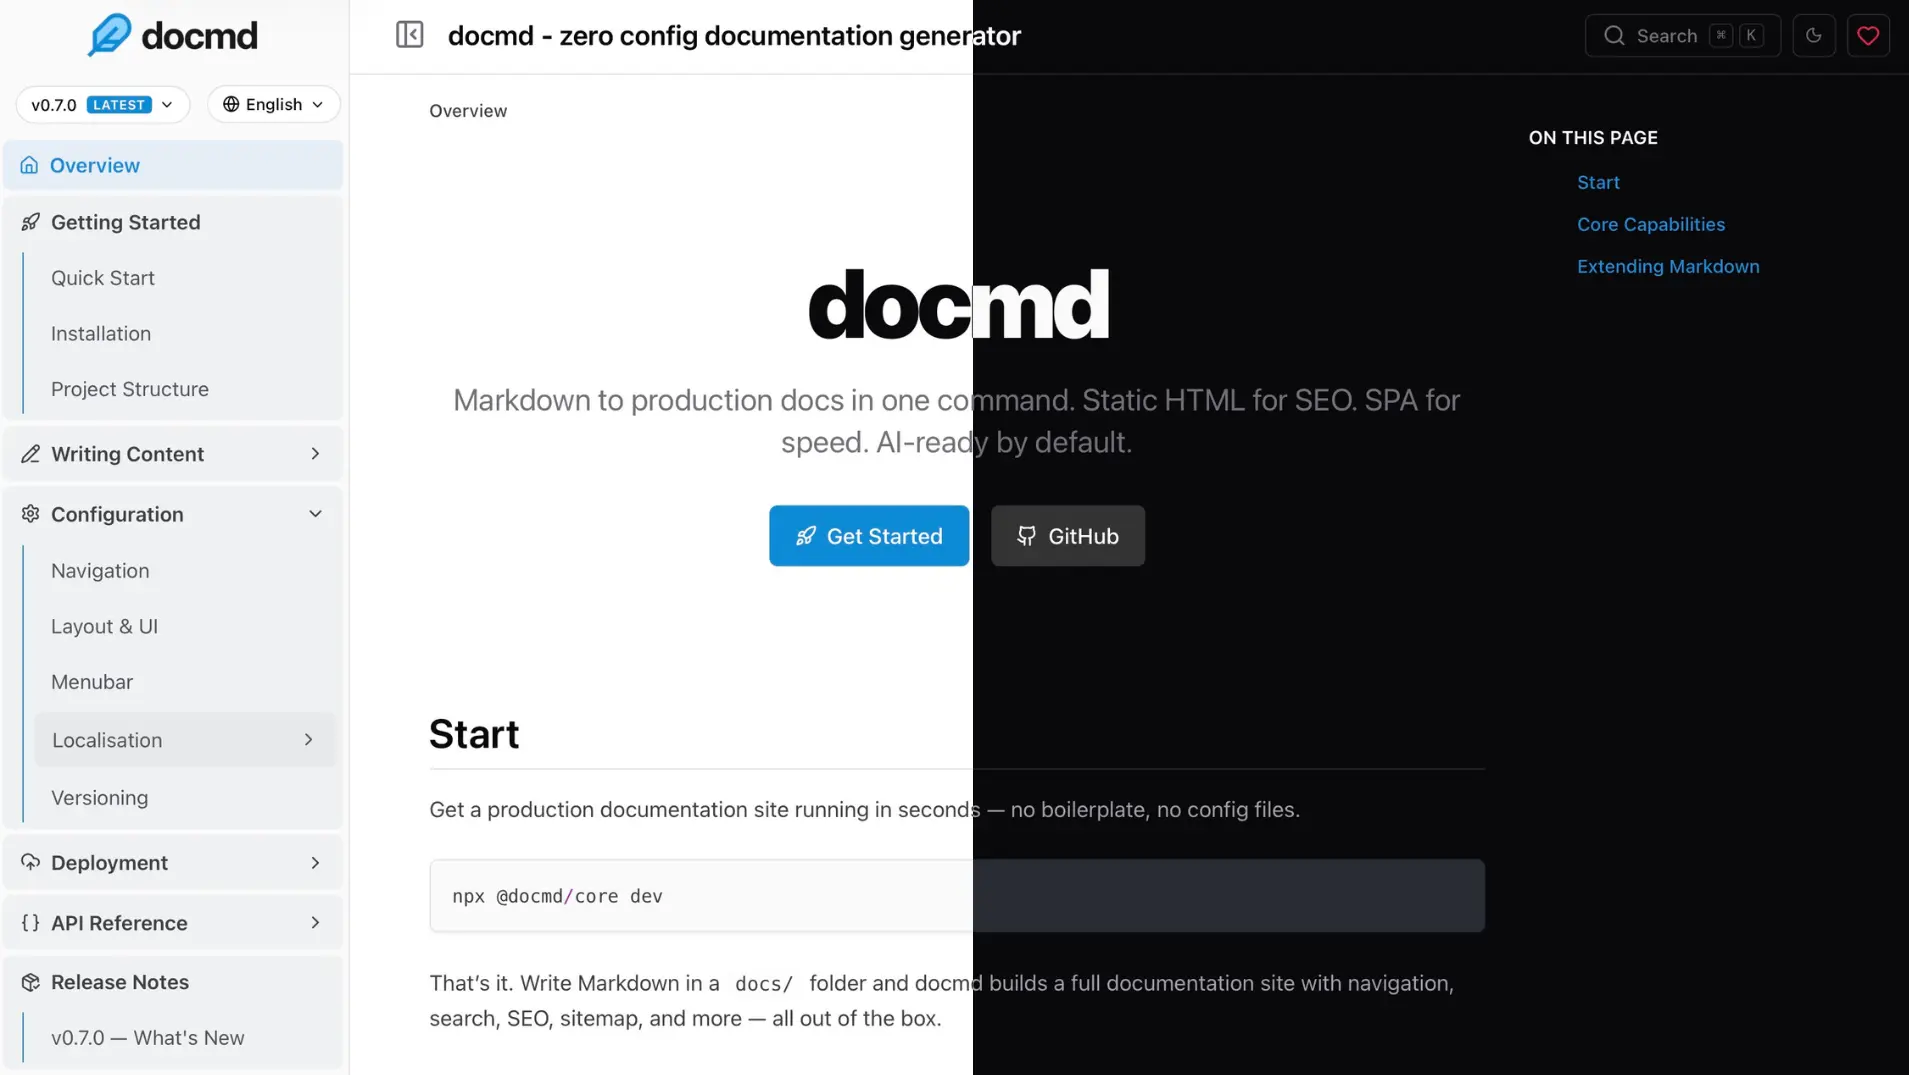
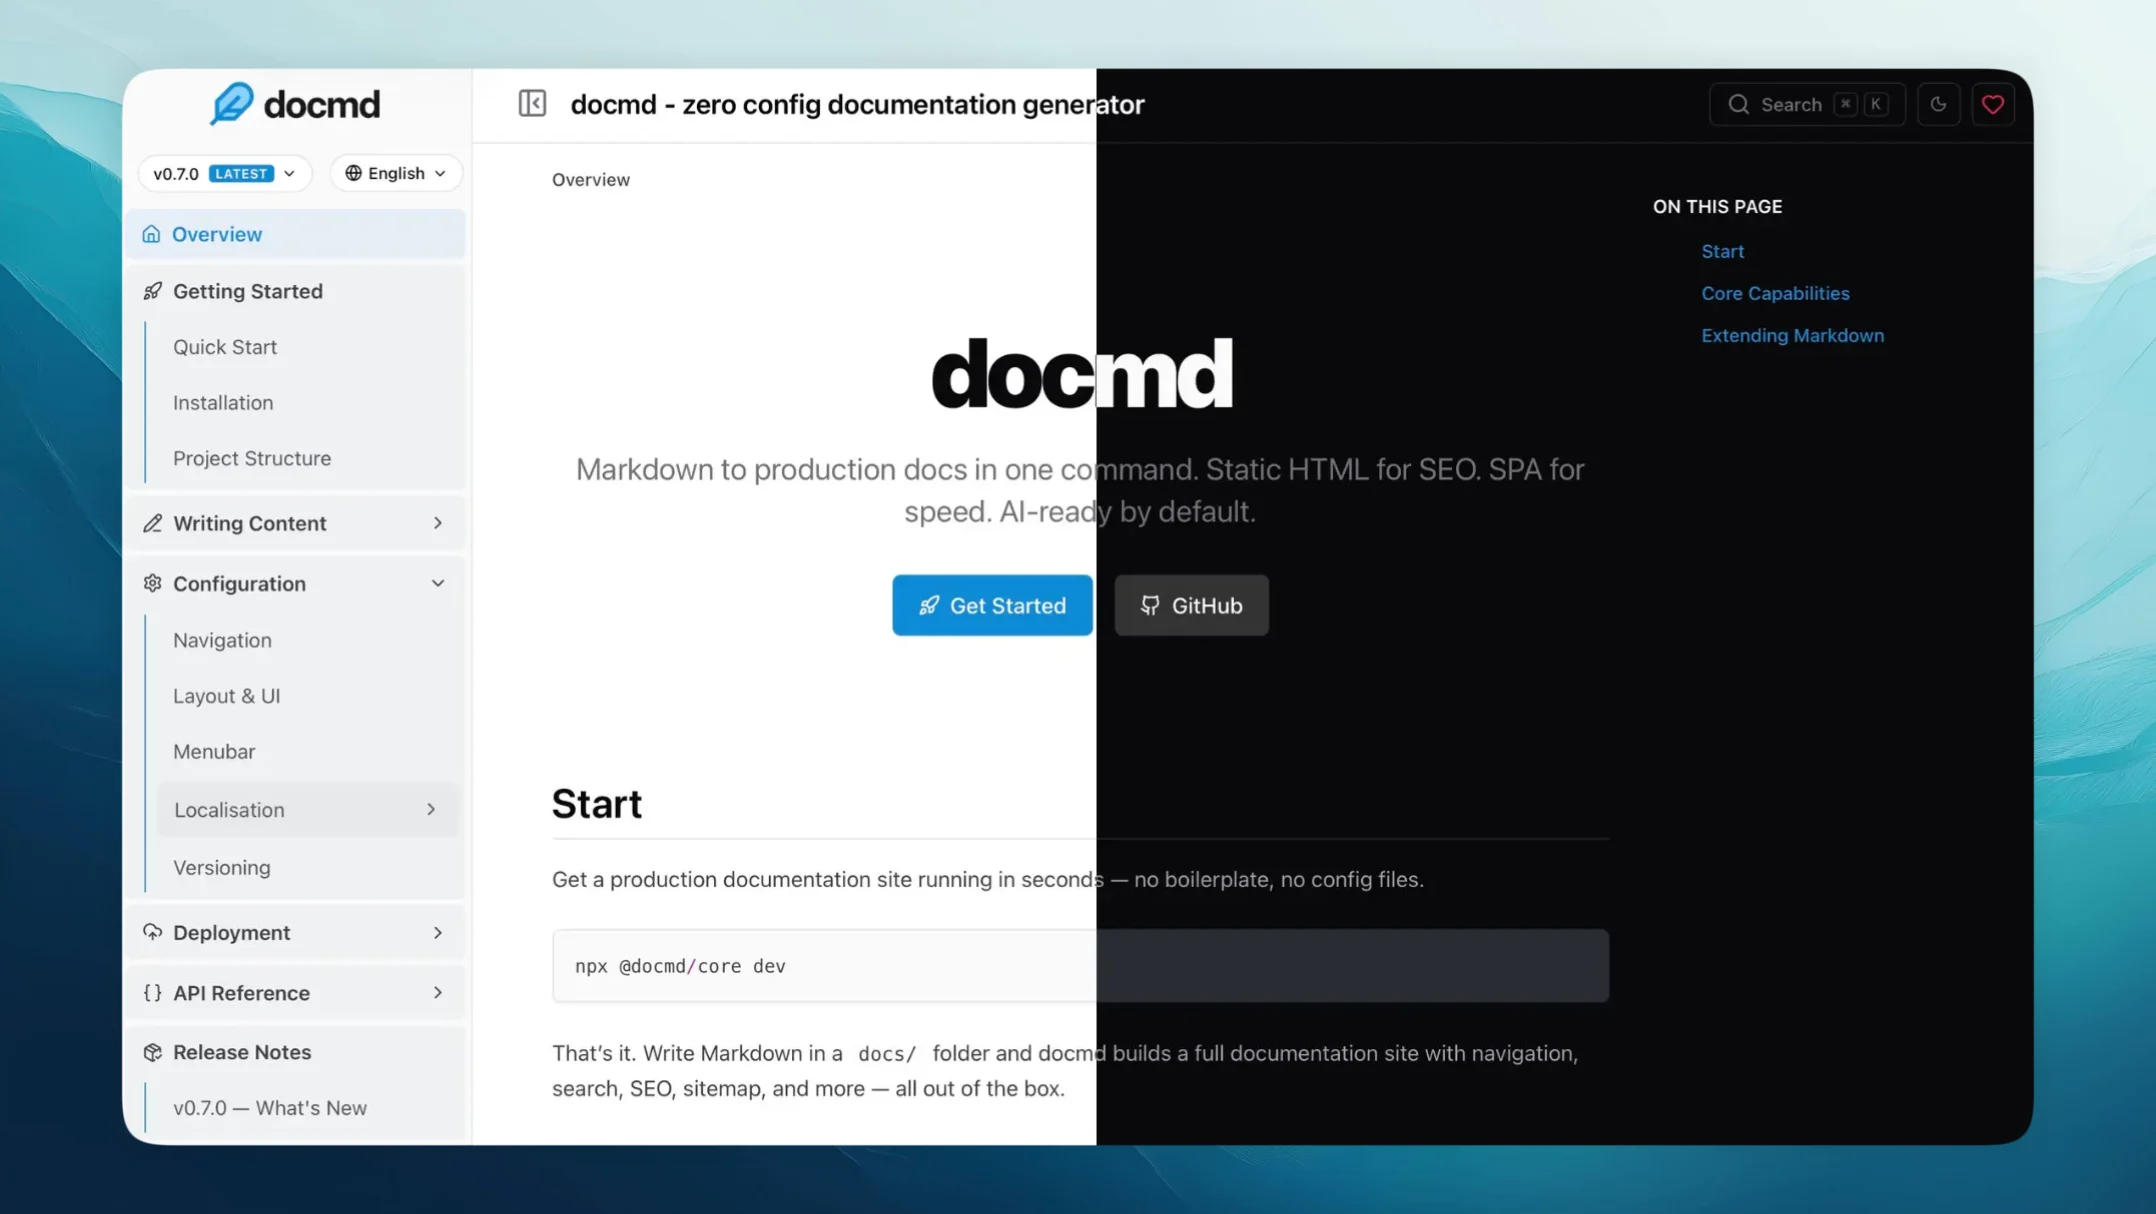
docs: update comparison section and cover assets across all translated READMEs

diff --git a/README.ru.md b/README.ru.md
@@ -157,6 +157,11 @@ docker run -p 3000:3000 ghcr.io/docmd-io/docmd:0.9.0
 
 ## Почему docmd?
 
+<div align="center">
+  <img width="1000" alt="image" src="https://github.com/user-attachments/assets/f511c723-e740-450b-91bb-1d4cc3e1d791" />
+</div>
+
+<!--
 | Возможность | docmd | Docusaurus | MkDocs | VitePress | Mintlify |
 | :--- | :---: | :---: | :---: | :---: | :---: |
 | **Обязательный конфиг** | **Нет** | `docusaurus.config.js` | `mkdocs.yml` | `config.mts` | `docs.json` |
@@ -173,6 +178,9 @@ docker run -p 3000:3000 ghcr.io/docmd-io/docmd:0.9.0
 | **Docker-образ** | **Официальный** | - | Официальный | - | - |
 | **Self-hosted** | **Да** | Да | Да | Да | - |
 | **Стоимость** | **Бесплатно (OSS)** | Бесплатно (OSS) | Бесплатно (OSS) | Бесплатно (OSS) | Freemium |
+-->
+
+**Смотрите полное [Сравнение с Docusaurus, Mintlify и другими →](https://docs.docmd.io/comparison/)**
 
 ## Особенности
 

diff --git a/README.zh.md b/README.zh.md
@@ -149,6 +149,11 @@ docker run -p 3000:3000 ghcr.io/docmd-io/docmd:0.9.0
 
 ## 为什么选择 docmd？
 
+<div align="center">
+  <img width="1000" alt="image" src="https://github.com/user-attachments/assets/f511c723-e740-450b-91bb-1d4cc3e1d791" />
+</div>
+
+<!--
 | 功能特性 | docmd | Docusaurus | MkDocs | VitePress | Mintlify |
 | :--- | :---: | :---: | :---: | :---: | :---: |
 | **必需配置文件** | **无** | `docusaurus.config.js` | `mkdocs.yml` | `config.mts` | `docs.json` |
@@ -165,6 +170,9 @@ docker run -p 3000:3000 ghcr.io/docmd-io/docmd:0.9.0
 | **Docker 镜像** | **官方提供** | - | 官方提供 | - | - |
 | **私有化自部署** | **支持** | 支持 | 支持 | 支持 | - |
 | **开源免费** | **免费 (OSS)** | 免费 (OSS) | 免费 (OSS) | 免费 (OSS) | Freemium |
+-->
+
+**查看与 Docusaurus、Mintlify 等的 [完整对比 →](https://docs.docmd.io/zh/comparison/)**
 
 ## 核心特性
 

diff --git a/README.ja.md b/README.ja.md
@@ -149,6 +149,11 @@ docker run -p 3000:3000 ghcr.io/docmd-io/docmd:0.9.0
 
 ## なぜ docmd なのか？
 
+<div align="center">
+  <img width="1000" alt="image" src="https://github.com/user-attachments/assets/f511c723-e740-450b-91bb-1d4cc3e1d791" />
+</div>
+
+<!--
 | 機能 | docmd | Docusaurus | MkDocs | VitePress | Mintlify |
 | :--- | :---: | :---: | :---: | :---: | :---: |
 | **設定の要否** | **不要** | `docusaurus.config.js` | `mkdocs.yml` | `config.mts` | `docs.json` |
@@ -165,6 +170,9 @@ docker run -p 3000:3000 ghcr.io/docmd-io/docmd:0.9.0
 | **Docker イメージ** | **公式提供** | - | 公式提供 | - | - |
 | **セルフホスト** | **対応** | 対応 | 対応 | 対応 | - |
 | **費用** | **無料 (OSS)** | 無料 (OSS) | 無料 (OSS) | 無料 (OSS) | Freemium |
+-->
+
+**[Docusaurus、Mintlify などとの完全な比較を見る →](https://docs.docmd.io/comparison/)**
 
 ## 主な特徴
 

diff --git a/README.fr.md b/README.fr.md
@@ -157,6 +157,11 @@ docker run -p 3000:3000 ghcr.io/docmd-io/docmd:0.9.0
 
 ## Pourquoi docmd ?
 
+<div align="center">
+  <img width="1000" alt="image" src="https://github.com/user-attachments/assets/f511c723-e740-450b-91bb-1d4cc3e1d791" />
+</div>
+
+<!--
 | Fonctionnalité | docmd | Docusaurus | MkDocs | VitePress | Mintlify |
 | :--- | :---: | :---: | :---: | :---: | :---: |
 | **Config requise** | **Aucune** | `docusaurus.config.js` | `mkdocs.yml` | `config.mts` | `docs.json` |
@@ -173,6 +178,9 @@ docker run -p 3000:3000 ghcr.io/docmd-io/docmd:0.9.0
 | **Image Docker** | **Officielle** | - | Officielle | - | - |
 | **Auto-hébergé** | **Oui** | Oui | Oui | Oui | - |
 | **Coût** | **Gratuit (OSS)** | Gratuit (OSS) | Gratuit (OSS) | Gratuit (OSS) | Freemium |
+-->
+
+**Voir la [Comparaison complète avec Docusaurus, Mintlify et autres →](https://docs.docmd.io/comparison/)**
 
 ## Fonctionnalités
 

diff --git a/README.es.md b/README.es.md
@@ -157,6 +157,11 @@ docker run -p 3000:3000 ghcr.io/docmd-io/docmd:0.9.0
 
 ## ¿Por qué docmd?
 
+<div align="center">
+  <img width="1000" alt="image" src="https://github.com/user-attachments/assets/f511c723-e740-450b-91bb-1d4cc3e1d791" />
+</div>
+
+<!--
 | Característica | docmd | Docusaurus | MkDocs | VitePress | Mintlify |
 | :--- | :---: | :---: | :---: | :---: | :---: |
 | **Config. requerida** | **Ninguna** | `docusaurus.config.js` | `mkdocs.yml` | `config.mts` | `docs.json` |
@@ -173,6 +178,9 @@ docker run -p 3000:3000 ghcr.io/docmd-io/docmd:0.9.0
 | **Imagen Docker** | **Oficial** | - | Oficial | - | - |
 | **Autohospedado** | **Sí** | Sí | Sí | Sí | - |
 | **Costo** | **Gratis (OSS)** | Gratis (OSS) | Gratis (OSS) | Gratis (OSS) | Freemium |
+-->
+
+**Vea la [Comparativa completa con Docusaurus, Mintlify y otros →](https://docs.docmd.io/es/comparison/)**
 
 ## Características
 

diff --git a/README.de.md b/README.de.md
@@ -156,6 +156,11 @@ docker run -p 3000:3000 ghcr.io/docmd-io/docmd:0.9.0
 
 ## Warum docmd?
 
+<div align="center">
+  <img width="1000" alt="image" src="https://github.com/user-attachments/assets/f511c723-e740-450b-91bb-1d4cc3e1d791" />
+</div>
+
+<!--
 | Feature | docmd | Docusaurus | MkDocs | VitePress | Mintlify |
 | :--- | :---: | :---: | :---: | :---: | :---: |
 | **Config erforderlich** | **Keine** | `docusaurus.config.js` | `mkdocs.yml` | `config.mts` | `docs.json` |
@@ -172,6 +177,9 @@ docker run -p 3000:3000 ghcr.io/docmd-io/docmd:0.9.0
 | **Docker-Image** | **Offiziell** | - | Offiziell | - | - |
 | **Self-hosted** | **Ja** | Ja | Ja | Ja | - |
 | **Kosten** | **Frei (OSS)** | Frei (OSS) | Frei (OSS) | Frei (OSS) | Freemium |
+-->
+
+**Vollständiger [Vergleich mit Docusaurus, Mintlify und weiteren →](https://docs.docmd.io/de/comparison/)**
 
 ## Features
 

diff --git a/packages/core/README.md b/packages/core/README.md
@@ -151,6 +151,11 @@ docker run -p 3000:3000 ghcr.io/docmd-io/docmd:0.9.0
 
 ## Why docmd?
 
+<div align="center">
+  <img width="1000" alt="image" src="https://github.com/user-attachments/assets/f511c723-e740-450b-91bb-1d4cc3e1d791" />
+</div>
+
+<!--
 | Feature | docmd | Docusaurus | MkDocs | VitePress | Mintlify |
 | :--- | :---: | :---: | :---: | :---: | :---: |
 | **Config required** | **None** | `docusaurus.config.js` | `mkdocs.yml` | `config.mts` | `docs.json` |
@@ -167,6 +172,9 @@ docker run -p 3000:3000 ghcr.io/docmd-io/docmd:0.9.0
 | **Docker image** | **Official** | - | Official | - | - |
 | **Self-hosted** | **Yes** | Yes | Yes | Yes | - |
 | **Cost** | **Free (OSS)** | Free (OSS) | Free (OSS) | Free (OSS) | Freemium |
+-->
+
+**See Complete [Comparison with Docusaurus, Mintlify and others →](https://docs.docmd.io/comparison/)**
 
 ## Features
 

diff --git a/README.md b/README.md
@@ -37,7 +37,7 @@
   <br/>
 
   <a href="https://docs.docmd.io">
-    <img width="820" alt="docmd default theme — light and dark mode preview" src="https://github.com/user-attachments/assets/315e1d3c-14cd-48a8-9a9e-3b1558ac33dd" />
+    <img width="820" alt="docmd default theme — light and dark mode preview" src="https://raw.githubusercontent.com/docmd-io/docmd/refs/heads/main/assets/docmd-cover.webp" />
   </a>
 
   <br/><br/>
